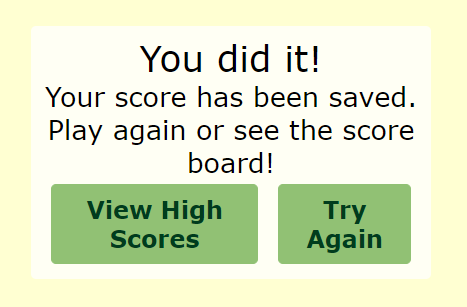
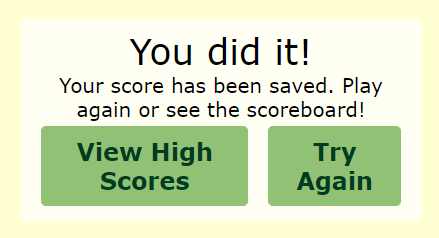
update README

Changed region(s): [[0.0296, 0.0588, 0.9772, 0.9412]]

diff --git a/index.html b/index.html
@@ -36,10 +36,10 @@
                 </div>
                 <div id="loading-page" class="hide">
                     <h1>You did it!</h1>
-                    <h2>Your score has been saved. Play again or see the score board!</h2>
+                    <h2 class="save-score">Your score has been saved. Play again or see the scoreboard!</h2>
                 </div>
                 <div id="score-board" class="hide">
-                    <h2 id="score-board-header">Score Board</h2>
+                    <h2 id="score-board-header">Scoreboard</h2>
                     <ul id="score-board-scores" class="score-grid">
                         <!-- <li class="score" style="display: flex; flex-direction: row;">
                             <p>player initials</p>

diff --git a/assets/css/style.css b/assets/css/style.css
@@ -12,9 +12,10 @@
     --button-color: #91c174;
     --button-color-hover: #cc9b6e;
     --button-color-correct: #003c1d;
-    --button-color-wrong: #351a00; 
+    --button-color-wrong: #c6664f; 
     --text-color-light: white; 
     --text-color-dark: #003c1d; 
+    --text-color-wrong: #661300;
 }
 
 body {
@@ -73,7 +74,6 @@ p {
     margin: 5px 10px;
 }
 
-
 .btn {
     cursor: pointer;
 }
@@ -90,7 +90,7 @@ p {
 
 .btn.wrong {
     background-color: var(--button-color-wrong);
-    color: var(--text-color-light);
+    color: var(--text-color-wrong);
 }
 
 .start-btn,
@@ -123,6 +123,10 @@ p {
     display: flex;
     justify-content: center;
     align-items: center;
+}
+
+.save-score {
+    font-size: 20px;
 }
 
 .hide {

diff --git a/README.md b/README.md
@@ -1,7 +1,94 @@
-# Animal-Kingdom-Quiz
+# Animal Kingdom Quiz
 
+## Description
+
+In this project, I worked to create a quiz with HTML, CSS, and JavaScript. I was motivated to provide a fun quiz about Disney’s Animal Kingdom park and have individual scores saved to local storage.
+
+This website was created for the purpose of testing the knowledge of the Disney parks fan. I created a website where eight questions about Disney’s Animal Kingdom will be asked to ultimately receive a score out of eight.
+
+Through the process of coding the Animal Kingdom Quiz, I was able to learn more about JSON and storing data as objects locally. I also had the opportunity to better acquaint myself with arrays, functions, variables, and for loops in JavaScript. The newest coding challenge that I was able to do repeatedly was calling the getElementById to create variables for buttons and containers. My biggest challenges, however, were to create elements, append stored JSON object information into the newly created elements, and to accurately store data as a JSON object array in the local storage.
+
+[Here is a link to the webpage](https:/).
+
+---
+---
+
+## Table of Contents
+
+- [Animal Kingdom](#animal-kingdom)
+- [Quiz](#quiz)
+- [Credits](#credits)
+- [License](#license)
+
+---
+---
+
+## Animal Kingdom
+
+Disney’s Animal Kingdom (DAK) is one of the four Walt Disney World parks. Though it has attractions and entertainment, DAK also has a drive for nature conservation and education. The park was designed intentionally to emulate various parts of the world and their culture. Walt Disney World is part of the Association of Zoos & Aquariums, so they have the opportunity to 
+work with zoos around the world for species repopulation, animal rehabilitation, and education.
+
+
+Though there are plenty of fun facts about DAK, I chose eight that would be both interesting and difficult. Please enjoy learning a little bit about this park through my short quiz.
+
+---
+
+## Quiz
+
+### Start Quiz
+![Start Quiz Screenshot](assets/images/Start-Quiz-Screenshot.png "Start Quiz Screenshot")
+
+Let’s start the quiz! The first and only thing you see when you open up the page is a “Start Quiz” button. This is where the fun begins!
+
+
+### Question and Timer
+![Question and Timer Screenshot](assets/images/question-timer-screenshot.png "Question and Timer Screenshot")
+
+Once the quiz has been started, each question (randomly selected from the eight available) will be presented one at a time. Along with the question, a 60 second timer will appear at the top left of the page. Try to answer the questions correctly, because each answer that is incorrect takes five seconds off the timer.
+
+### Quiz Select
+![Quiz Select Screenshot](assets/images/question-select-screenshot.png "Quiz Select Screenshot")
+
+Scroll over your answers and the tan coloring will show which you’re selecting. Once you pick, the color will change, revealing the correct answer in dark green along with the incorrect answers in red.
+
+### Add Initials to Save
+![Initials and Save Screenshot](assets/images/save-score-screenshot.png "Initials and Save Screenshot")
+
+After you’ve moved through all the questions (or if your timer runs out), you’ll be prompted to add your initials and save your score. Here, the information is turned into a JSON object in an array and stored locally.
+
+### All Done!
+![Done Screenshot](assets/images/quiz-over-screenshot.png "Done Screenshot")
+
+Now you’ve successfully walked through the eight question quiz! From here, you have the option to either try again immediately, or view the scoreboard.
+
+### Scoreboard
+
+Here is the scoreboard with the scores saved locally on my computer. I tested my family, and this is the result!
+
+---
+
+## Credits
 
 HTML Quiz walkthrough YouTube video by Simplilearn: https://youtu.be/lfjBJHN7vUo
+
 Build A Quiz App With JavaScript YouTube video by Web Dev Simplified: https://youtu.be/riDzcEQbX6k
+
 Simple Countdown Timer with JavaScript YouTube video by Florin Pop: https://youtu.be/x7WJEmxNlEs
-score board https://michael-karen.medium.com/how-to-save-high-scores-in-local-storage-7860baca9d68
+
+Animal Kingdom information source: https://wdwnews.com/fact-sheets/2018/04/20/disneys-animal-kingdom-fun-facts/
+
+My tutor, Corrado Alfano: calfano@bootcampspot.com
+
+Helpful Resources:
+W3 School’s information about JavaScript: https://www.w3schools.com/js/default.asp
+Stack Overflow’s answered questions about JavaScript: https://stackoverflow.com/
+MDN’s information on JavaScript: https://developer.mozilla.org/en-US/
+Google.com helping me find the above resources
+The Bootcamp gitLab DU-VIRT-FSF-PT-04-2023-U-LOLC repository
+
+The README template I used was provided by The Full-Stack Blog: https://coding-boot-camp.github.io/full-stack/github/professional-readme-guide
+
+---
+
+## License
+MIT Licence
